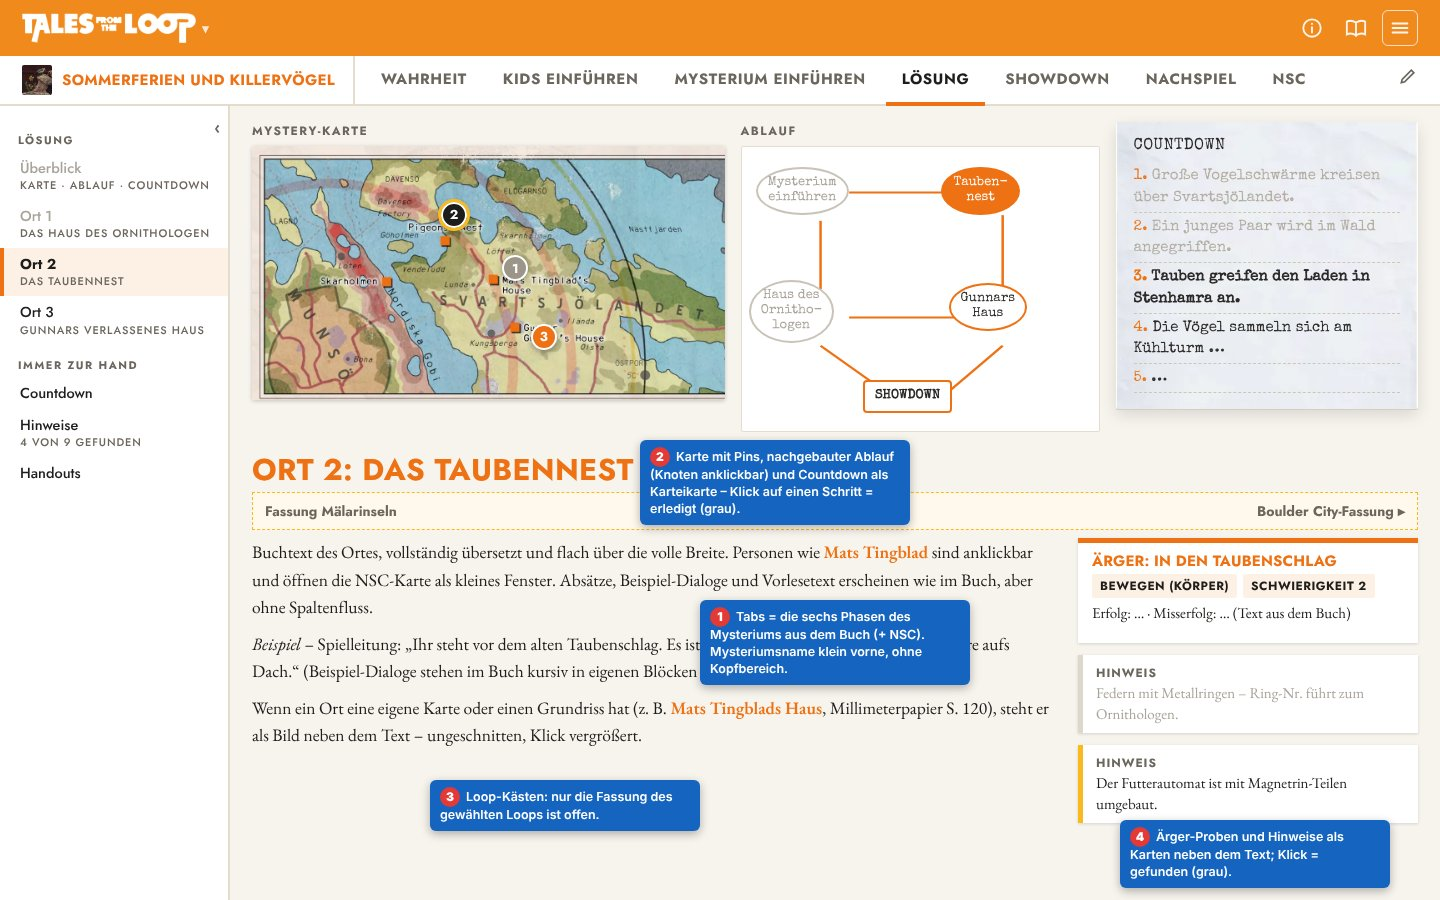
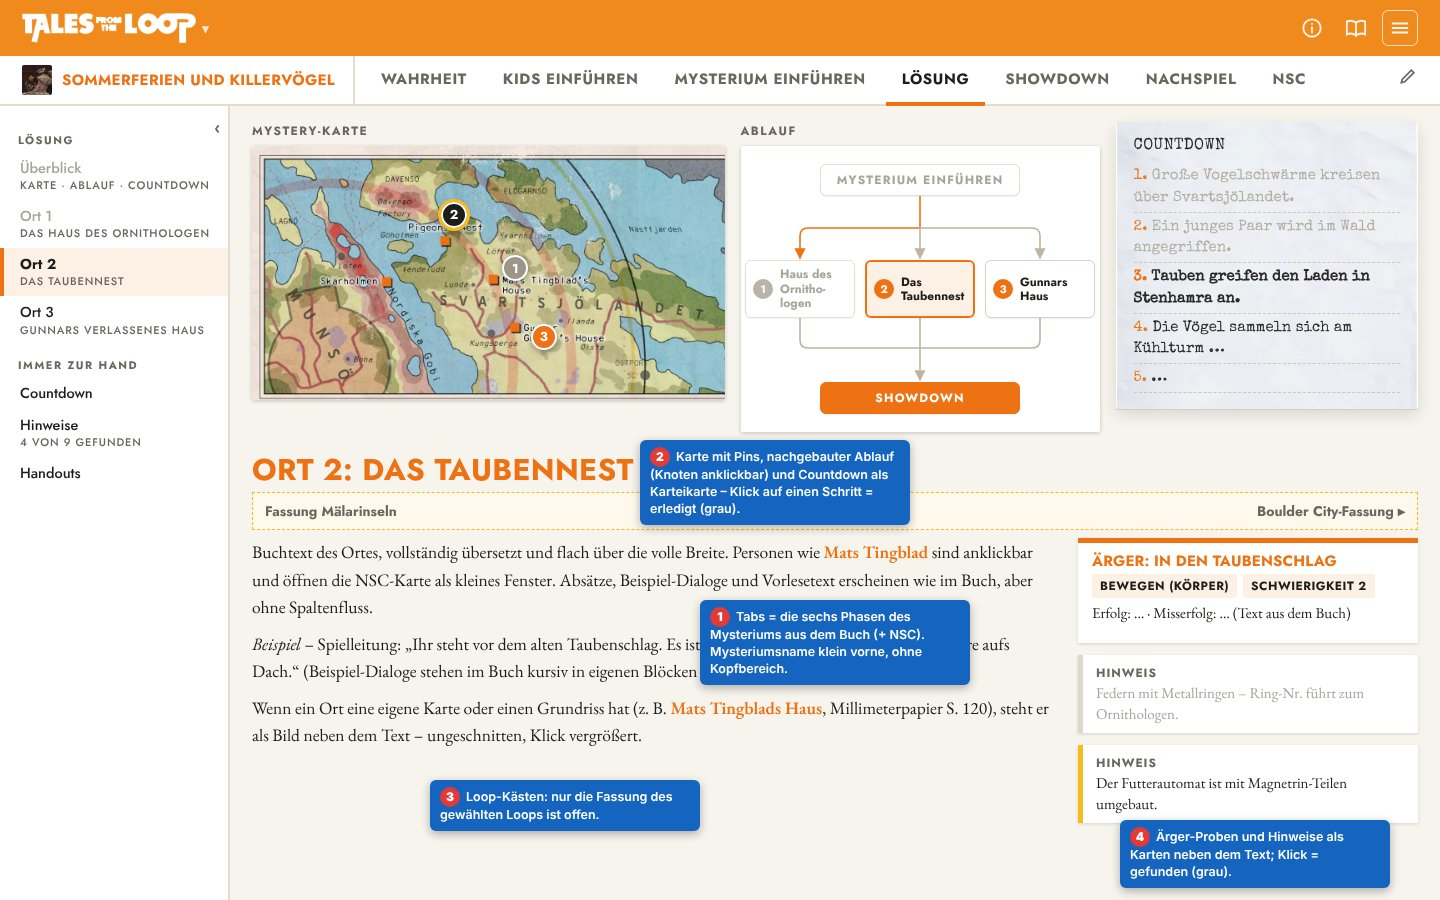
TftL-Entwurf 3: Ablauf-Diagramm sauber neu gesetzt

Changed region(s): [[0.5, 0.1867, 0.75, 0.4667]]

diff --git a/plan/tftl/mockups/src/m3.html b/plan/tftl/mockups/src/m3.html
@@ -18,12 +18,17 @@
 .pin.dn{background:#9b958a}
 .pin.on{background:var(--ink);outline:3px solid var(--band)}
 .cap{font:700 12px var(--sans);text-transform:uppercase;letter-spacing:.12em;color:var(--soft);margin-bottom:6px}
-.flow{background:#fff;border:1.5px solid var(--line);border-radius:2px;padding:12px;height:286px;position:relative}
-.nd{position:absolute;border:2px solid var(--acc);border-radius:50%;padding:7px 10px;font:13px/1.15 var(--type);text-align:center;background:#fff;color:#2b2a28}
-.nd.dn{border-color:#c9c3b8;color:var(--done)}
-.nd.on{background:var(--acc);color:#fff}
-.nd.sd{border-radius:4px;font-weight:700}
-svg.ar{position:absolute;inset:0;width:100%;height:100%;pointer-events:none}
+.flow{background:#fff;box-shadow:0 1px 4px rgba(0,0,0,.2);border-radius:2px;height:286px;position:relative;display:grid;place-items:center}
+.fc{position:relative;width:350px;height:250px}
+.fc svg{position:absolute;inset:0;overflow:visible}
+.nd{position:absolute;display:flex;align-items:center;gap:7px;background:#fff;border:1.5px solid #d9d1c2;border-radius:6px;padding:0 7px;font:600 12px/1.2 var(--sans);color:var(--ink);box-shadow:0 1px 2px rgba(0,0,0,.06)}
+.nd i{flex:none;width:20px;height:20px;border-radius:50%;background:var(--acc);color:#fff;font:700 11px var(--sans);font-style:normal;display:grid;place-items:center}
+.nd.o{width:110px;hyphens:manual;height:58px;top:96px}
+.nd.dn{color:var(--done);border-color:#e6e0d4}.nd.dn i{background:#b9b3a8}
+.nd.on{border:2px solid var(--acc);background:#fdf1e6}
+.nd.end{left:75px;width:200px;white-space:nowrap;height:32px;justify-content:center;font:700 12px var(--sans);letter-spacing:.1em;text-transform:uppercase}
+.nd.st{top:0;color:var(--done);border-color:#e6e0d4}
+.nd.sd{top:218px;background:var(--acc);border-color:var(--acc);color:#fff}
 .cd ol{list-style:none}
 .cd li{padding:3px 0 3px 0;border-bottom:1px dashed #cfc7b6}
 .cd li.dn{color:#b3ada2}
@@ -61,14 +66,22 @@ h2.loc{font-size:30px;color:var(--acc);margin:22px 0 2px;display:flex;align-item
   <div class="top3">
    <div><div class="cap">Mystery-Karte</div><div class="map"><img src="img/karte-mysterium.webp">
      <span class="pin dn" style="left:53%;top:43%">1</span><span class="pin on" style="left:40%;top:22%">2</span><span class="pin" style="left:59%;top:70%">3</span></div></div>
-   <div><div class="cap">Ablauf</div><div class="flow">
-     <svg class="ar" viewBox="0 0 100 100" preserveAspectRatio="none"><g stroke="#ee7113" stroke-width=".7" fill="none"><path d="M30 16 L64 16"/><path d="M22 26 L22 50"/><path d="M73 24 L73 50"/><path d="M30 60 L60 60"/><path d="M22 70 L40 86"/><path d="M73 70 L58 86"/></g></svg>
-     <div class="nd dn" style="left:4%;top:7%">Mysterium<br>einführen</div>
-     <div class="nd on" style="left:56%;top:7%">Tauben-<br>nest</div>
-     <div class="nd dn" style="left:2%;top:47%">Haus des<br>Ornitho-<br>logen</div>
-     <div class="nd" style="left:58%;top:48%">Gunnars<br>Haus</div>
-     <div class="nd sd" style="left:34%;top:82%">SHOWDOWN</div>
-   </div></div>
+   <div><div class="cap">Ablauf</div><div class="flow"><div class="fc">
+     <svg width="350" height="250" viewBox="0 0 350 250"><defs><marker id="a" viewBox="0 0 8 8" refX="7" refY="4" markerWidth="7" markerHeight="7" orient="auto"><path d="M0 0L8 4L0 8z" fill="#bfb5a3"/></marker><marker id="b" viewBox="0 0 8 8" refX="7" refY="4" markerWidth="7" markerHeight="7" orient="auto"><path d="M0 0L8 4L0 8z" fill="#ee7113"/></marker></defs>
+      <g fill="none" stroke-width="1.6" stroke-linecap="round" stroke-linejoin="round">
+       <path d="M175 32V64" stroke="#ee7113"/>
+       <path d="M175 64H63Q55 64 55 72V94" stroke="#ee7113" marker-end="url(#b)"/>
+       <path d="M175 64V94" stroke="#bfb5a3" marker-end="url(#a)"/>
+       <path d="M175 64H287Q295 64 295 72V94" stroke="#bfb5a3" marker-end="url(#a)"/>
+       <path d="M55 154V176Q55 184 63 184H287Q295 184 295 176V154" stroke="#bfb5a3"/>
+       <path d="M175 154V216" stroke="#bfb5a3" marker-end="url(#a)"/>
+      </g></svg>
+     <div class="nd end st">Mysterium einführen</div>
+     <div class="nd o dn" style="left:0"><i>1</i><span>Haus des Ornitho&shy;logen</span></div>
+     <div class="nd o on" style="left:120px"><i>2</i><span>Das Taubennest</span></div>
+     <div class="nd o" style="left:240px"><i>3</i><span>Gunnars Haus</span></div>
+     <div class="nd end sd">Showdown</div>
+   </div></div></div>
    <div class="kk cd"><h4>Countdown</h4><ol>
      <li class="dn"><span>1.</span> Große Vogelschwärme kreisen über Svartsjölandet.</li>
      <li class="dn"><span>2.</span> Ein junges Paar wird im Wald angegriffen.</li>

diff --git a/plan/TFTL_PLAN.md b/plan/TFTL_PLAN.md
@@ -116,7 +116,7 @@ Alle Mysterien im Buch folgen demselben Aufbau (Kap. 6: sechs Phasen). Darum **e
 
 - **Tab-Leiste** (volle Breite): kleines Eröffnungsbild + Name in Orange, dann die Phasen-Tabs **Wahrheit · Kids einführen · Mysterium einführen · Lösung · Showdown · Nachspiel · NSC**, Stift-Symbol rechts. Zuordnung der Buchüberschriften: The Truth of the Mystery (+ Jahreszeit auf den Inseln / in Boulder City, Hintergrund, Teens/Dinosaurier usw.) → Wahrheit; Introducing the Kids → Kids einführen; Introducing the Mystery → Mysterium einführen; Solving the Mystery + Location 1…n + Events + The Tilt → Lösung; Showdown/Confrontation + After the Showdown → Showdown; Aftermath + Change → Nachspiel; NPCs and Creatures → NSC.
 - **Seitenleiste** (nur in Phasen mit mehreren Abschnitten, v. a. „Lösung“): Überblick · Ort 1 … Ort n · Ereignisse; darunter „Immer zur Hand“: Countdown · Hinweise (Zähler) · Handouts. Besuchte Orte grau.
-- **Lösung › Überblick / Kopf jedes Orts:** Reihe aus **Mystery-Karte** (Seitenausschnitt aus dem Buch, Pins je Ort, anklickbar), **Ablauf** (das Pfeil-Diagramm aus dem Buch, z. B. Core S. 120, als anklickbare Knoten nachgebaut) und **Countdown** (Karteikarte, Schritte anklickbar). Auf schmalen Bildschirmen wird die Reihe zur wischbaren Zeile.
+- **Lösung › Überblick / Kopf jedes Orts:** Reihe aus **Mystery-Karte** (Seitenausschnitt aus dem Buch, Pins je Ort, anklickbar), **Ablauf** (das Pfeil-Diagramm aus dem Buch, z. B. Core S. 120, **sauber neu gesetzt**, nicht die Buchgrafik: Raster aus Knoten – oben „Mysterium einführen“, Mitte die Orte als Kästen mit derselben Nummer wie der Karten-Pin, unten „Showdown“ in Vollorange; Verbindungen als rechtwinklige SVG-Linien mit runden Ecken und Pfeilspitzen, in echten Pixel-Koordinaten (nicht gestreckt). Zustände: erledigt = grau, aktuell = orange Rahmen auf hellem Orange, bereits gegangener Weg orange. Abzweigungen/Querverbindungen aus dem Buch-Diagramm (z. B. Taubennest → Bibliothek) als zusätzliche Knotenzeile, nie als schräge Linien) und **Countdown** (Karteikarte, Schritte anklickbar). Auf schmalen Bildschirmen wird die Reihe zur wischbaren Zeile.
 - **Ort:** Überschrift orange + „S.“, Loop-Kasten-Zeile, Buchtext flach über die Breite; rechts schmale Spalte mit Ärger-Karten und Hinweis-Karten, die zu diesem Ort gehören (wenn der Text länger ist als die Spalte, fließt er darunter über die volle Breite – keine leere Spalte). Grundrisse/Ortspläne als Bild neben dem Text, Klick = groß.
 - **NSC-Tab:** Raster aus NSC-/Kreaturen-/Maschinen-Karten (Bild nur, wenn im Buch eins zur Figur gehört), Werte bei Kreaturen/Maschinen als Karte im Buch-Stil.
 - **Nachspiel:** Text + Knopf „Mysterium abgeschlossen“ (→ grau in der Übersicht) + Erfahrungsfragen.
